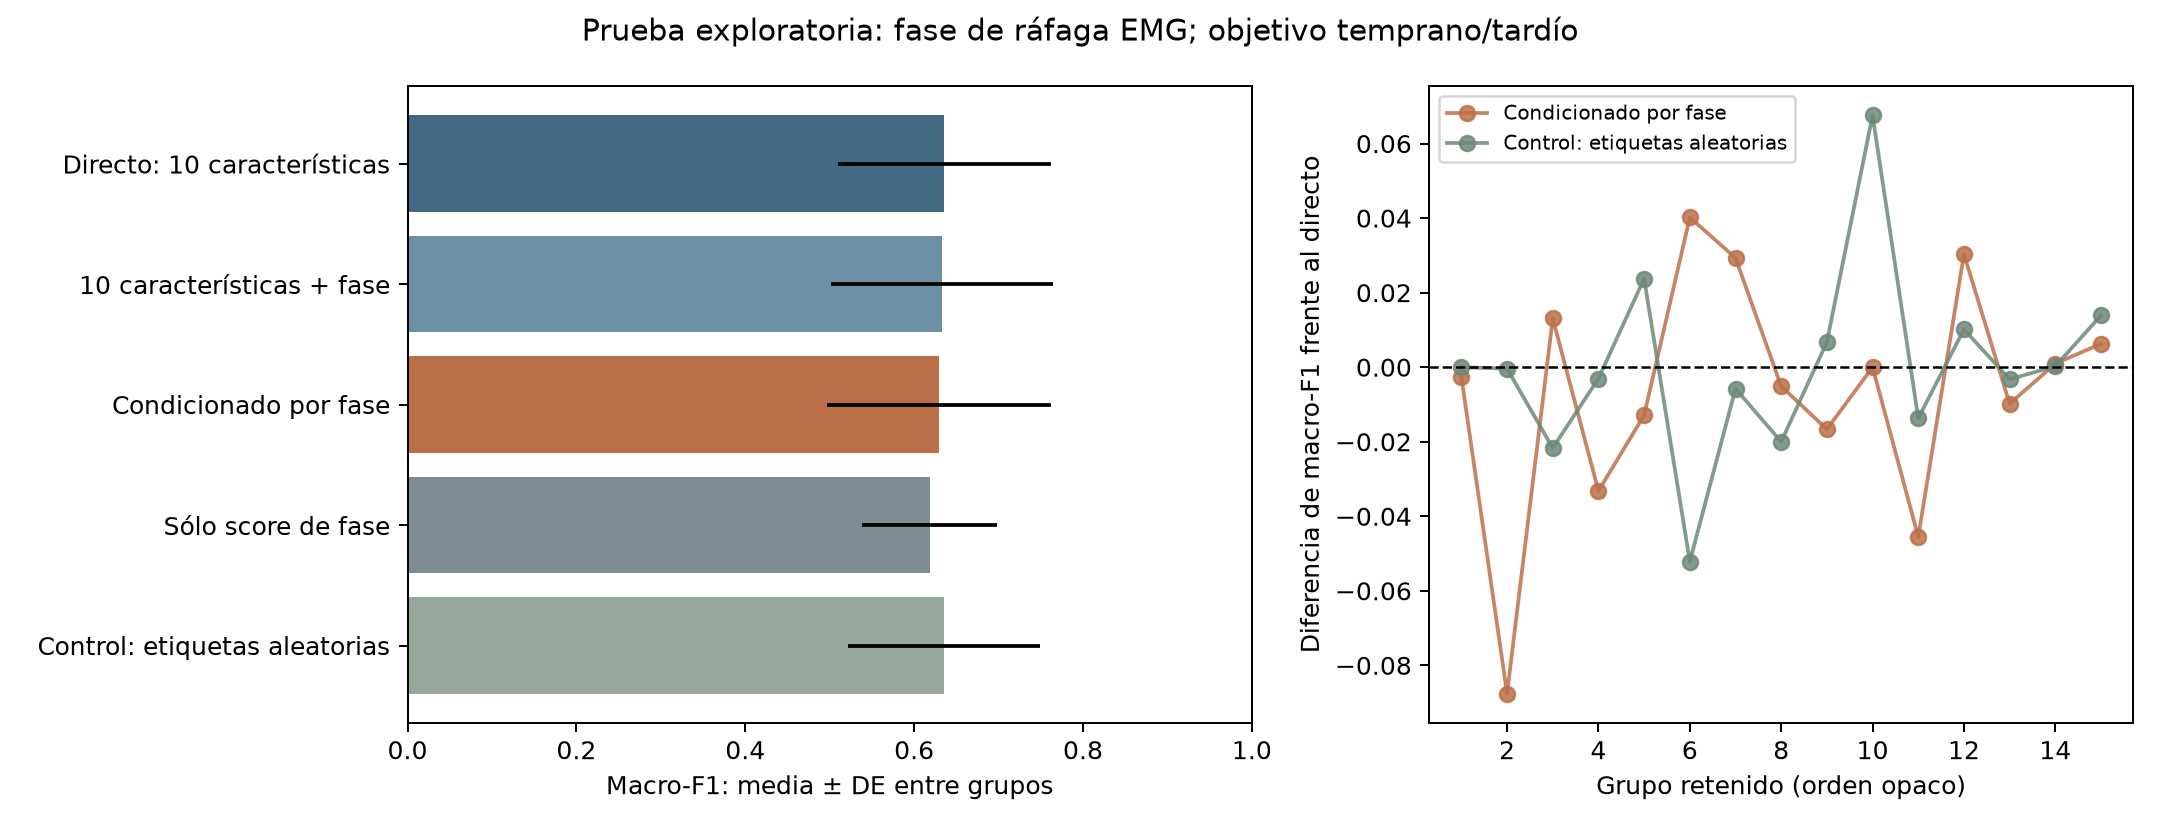
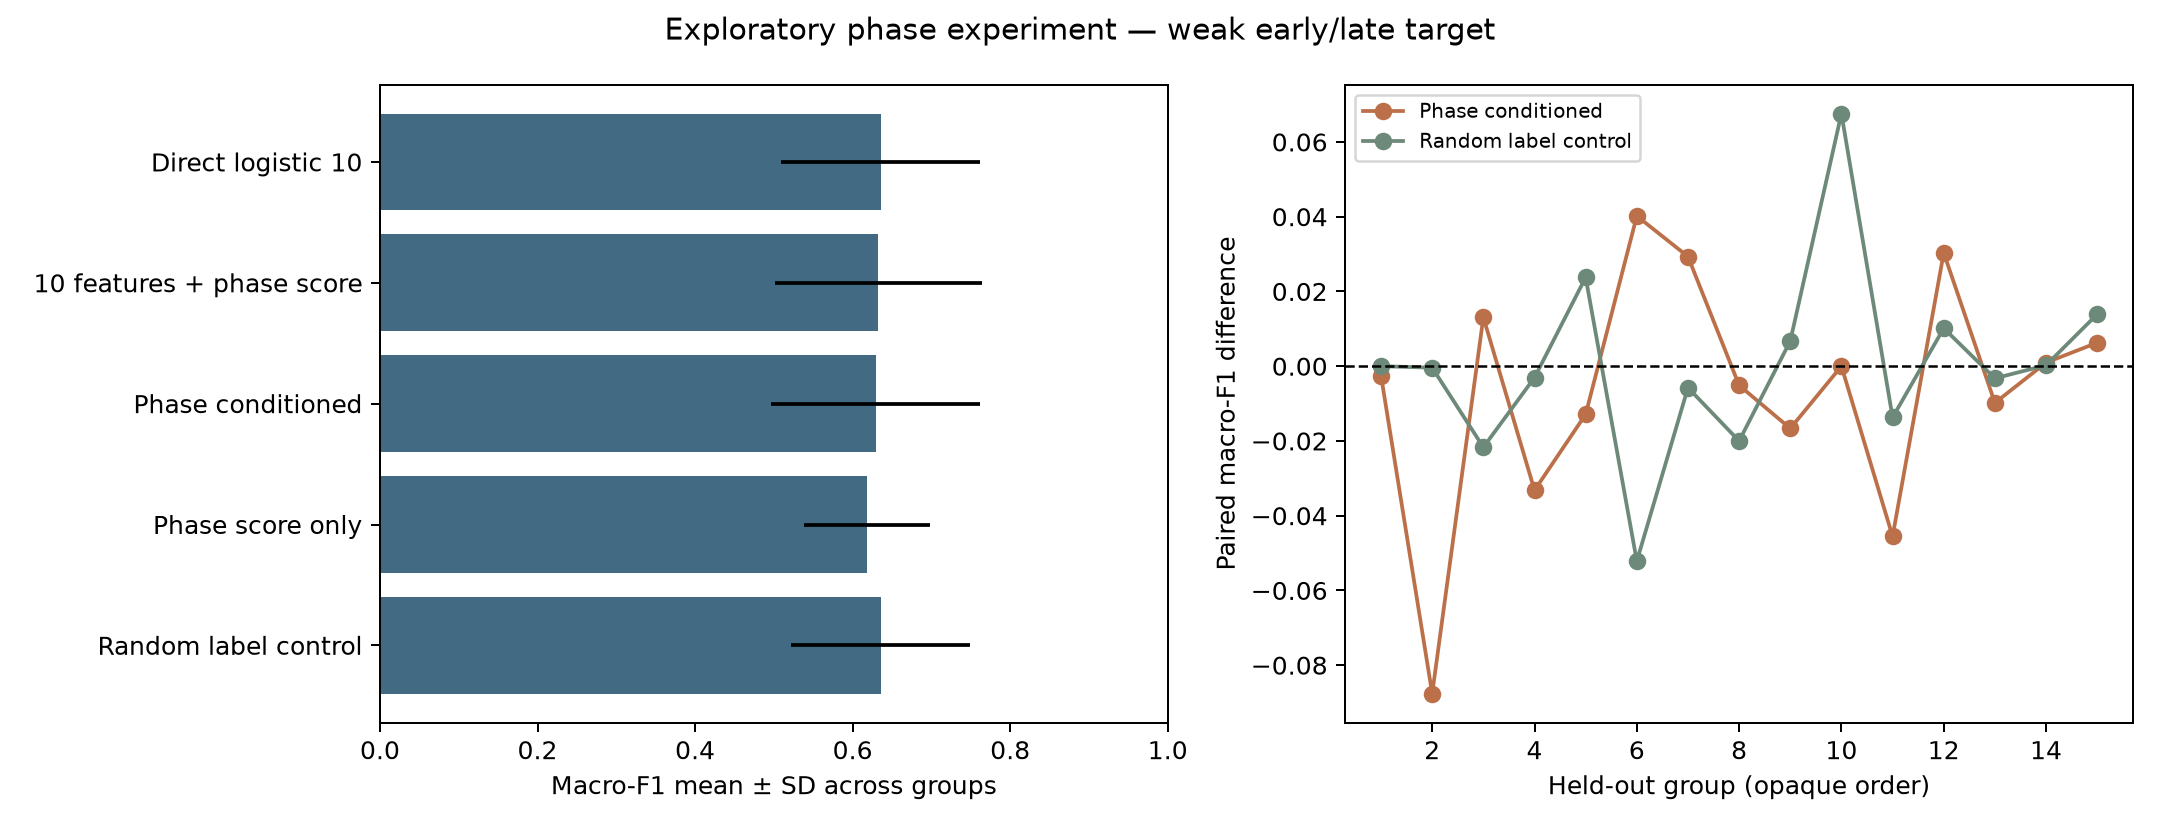
Make phase diagnostics reproducible from published experiment outputs

diff --git a/experiments/phase_proxy/evidence.py b/experiments/phase_proxy/evidence.py
@@ -1,6 +1,6 @@
 """Verify completed private runs and export aggregate, target-specific evidence."""
 from pathlib import Path
-import argparse,json,shutil
+import argparse,json,shutil,importlib.util
 import numpy as np
 import pandas as pd
 import matplotlib
@@ -53,6 +53,43 @@ def aggregate_hashes(public):
 
 def normalize_public_csv(public):
     for p in Path(public).glob('*.csv'):p.write_bytes(p.read_bytes().replace(b'\r\n',b'\n'))
+
+
+def resolve_run(experiment):
+    root=Path(experiment)
+    if (root/'completion_receipt.json').is_file():return root
+    if (root/'run/completion_receipt.json').is_file():return root/'run'
+    raise ValueError('no completed experiment found at run root or wrapper/run')
+
+
+def reconstruct_auxiliary(run):
+    """Rebuild only stage-1 diagnostics from frozen features; no stage-2 retraining."""
+    run=Path(run);script=Path(__file__).with_name('phase_spike.py')
+    spec=importlib.util.spec_from_file_location('original_phase_spike',script)
+    original=importlib.util.module_from_spec(spec);spec.loader.exec_module(original)
+    frame=pd.read_parquet(run/'phase_features.parquet');out=run/'phase_diagnostics';out.mkdir(exist_ok=True)
+    heads=original.PhaseScores(frame,out);groups=frame.subject_id.to_numpy();rows=[]
+    for group in sorted(set(groups)):
+        indices=np.flatnonzero(groups==group)
+        score=heads.get(sorted(set(groups)-{group}),indices,'phase','diagnostic/'+str(group))
+        part=frame.iloc[indices][['window_id','subject_id','recording_id','phase_proxy','label','time_fraction']].copy()
+        part['phase_score']=score;part['phase_prediction']=(score>=.5).astype(int);rows.append(part)
+    path=out/'phase_oof_predictions.parquet';pd.concat(rows,ignore_index=True).to_parquet(path,index=False);heads.save()
+    write_json(out/'reconstruction_receipt.json',{'phase_features_sha256':sha256_file(run/'phase_features.parquet'),'original_script_sha256':sha256_file(script),'predictions_sha256':sha256_file(path),'source':'group-held-out reconstruction of fixed original stage-1 head; no new fatigue-model fit'})
+    return path
+
+
+def draw_comparison(run,path):
+    summary=pd.read_csv(Path(run)/'metrics_summary.csv').query("metric=='f1_macro'").set_index('model')
+    results=pd.read_csv(Path(run)/'results.csv');fig,axes=plt.subplots(1,2,figsize=(12,4.6))
+    axes[0].barh([NAMES[m] for m in EXPERIMENT],[summary.loc[m,'mean'] for m in EXPERIMENT],xerr=[summary.loc[m,'sd'] for m in EXPERIMENT],color='#426b83')
+    axes[0].invert_yaxis();axes[0].set_xlim(0,1);axes[0].set_xlabel('Macro-F1 mean ± SD across groups')
+    base=results.query("model=='baseline_10'").set_index('fold_id').f1_macro
+    for model,color in [('phase_conditioned','#bc704a'),('random_conditioned','#6d8979')]:
+        d=results[results.model==model].set_index('fold_id').f1_macro-base
+        axes[1].plot(np.arange(1,len(d)+1),d,'o-',label=NAMES[model],color=color)
+    axes[1].axhline(0,color='black',ls='--',lw=1);axes[1].set_xlabel('Held-out group (opaque order)');axes[1].set_ylabel('Paired macro-F1 difference');axes[1].legend(fontsize=8)
+    fig.suptitle('Exploratory phase experiment — weak early/late target');fig.tight_layout();fig.savefig(path,dpi=180);plt.close(fig)
 
 
 def draw_confusions(table,models,path,title,normalized=False,auxiliary=False):
@@ -120,18 +157,18 @@ def build(primary,experiment,out,public,figures,config):
     primary=Path(primary);experiment=Path(experiment);out=Path(out);public=Path(public);figures=Path(figures)
     for p in [out,public,figures]:p.mkdir(parents=True,exist_ok=True)
     verify_evaluation(primary,config)
-    receipt=json.loads((experiment/'run/completion_receipt.json').read_text())
-    if receipt['status']!='complete' or (experiment/'run/RUNNING.json').exists():raise ValueError('phase run incomplete')
+    run=resolve_run(experiment);receipt=json.loads((run/'completion_receipt.json').read_text())
+    if receipt['status']!='complete' or (run/'RUNNING.json').exists():raise ValueError('phase run incomplete')
     for name,expected in receipt['output_hashes'].items():
-        if sha256_file(experiment/'run'/name)!=expected:raise ValueError('phase output checksum mismatch: '+name)
-    if sha256_file(experiment/'phase_spike.py')!=receipt['script_sha256']:raise ValueError('phase script identity mismatch')
-    if sha256_file(experiment/'PROTOCOLO_ANTES_DE_RESULTADOS.md')!=receipt['protocol_sha256']:raise ValueError('phase protocol identity mismatch')
-    p=pd.read_parquet(primary/'evaluation/oof_predictions.parquet');s=pd.read_parquet(experiment/'run/oof_predictions.parquet')
+        if sha256_file(run/name)!=expected:raise ValueError('phase output checksum mismatch: '+name)
+    if sha256_file(Path(__file__).with_name('phase_spike.py'))!=receipt['script_sha256']:raise ValueError('phase script identity mismatch')
+    if sha256_file(Path(__file__).with_name('PROTOCOLO_ANTES_DE_RESULTADOS.md'))!=receipt['protocol_sha256']:raise ValueError('phase protocol identity mismatch')
+    p=pd.read_parquet(primary/'evaluation/oof_predictions.parquet');s=pd.read_parquet(run/'oof_predictions.parquet')
     validate_predictions(p,PRIMARY,5509);validate_predictions(s,EXPERIMENT,5509)
     match=s.query("model=='baseline_10'").merge(p.query("model=='logistic_all'"),on='window_id',suffixes=('_s','_p'),validate='one_to_one')
     if len(match)!=5509 or not np.array_equal(match.label_s,match.label_p) or not np.array_equal(match.prediction_s,match.prediction_p):raise ValueError('baseline mismatch')
-    phase=pd.read_parquet(experiment/'run/phase_diagnostics/phase_oof_predictions.parquet')
-    auxiliary_metrics=pd.read_csv(experiment/'run/auxiliary_phase_metrics.csv')
+    phase=pd.read_parquet(reconstruct_auxiliary(run))
+    auxiliary_metrics=pd.read_csv(run/'auxiliary_phase_metrics.csv')
     for group,g in phase[phase.phase_proxy.notna()].groupby('subject_id'):
         measured=binary_metrics(g.phase_proxy.to_numpy().astype(int),g.phase_prediction.to_numpy(),g.phase_score.to_numpy())
         expected=auxiliary_metrics[auxiliary_metrics.subject_id==group]
@@ -152,11 +189,11 @@ def build(primary,experiment,out,public,figures,config):
         file='auxiliary_phase_confusion_'+('normalized' if normalized else 'counts')+'.png'
         draw_confusions(conf,['auxiliary_phase_head'],figures/file,'Auxiliary burst-half reference — '+('row proportions' if normalized else 'OOF counts'),normalized,True)
     architecture(figures/'phase_architecture.png');model_relationships(figures/'model_relationships.png')
-    shutil.copy2(experiment/'comparacion_fase.png',figures/'phase_comparison.png')
-    for name in ['metrics_summary.csv','paired_differences.csv']:shutil.copy2(experiment/'run'/name,public/name)
+    draw_comparison(run,figures/'phase_comparison.png')
+    for name in ['metrics_summary.csv','paired_differences.csv']:shutil.copy2(run/name,public/name)
     private=out/'opaque_mapping';private.mkdir(exist_ok=True)
     shutil.copy2(primary/'public_export/public_export_salt.txt',private/'public_export_salt.txt')
-    public_fold_export(pd.read_csv(experiment/'run/results.csv'),public,private)
+    public_fold_export(pd.read_csv(run/'results.csv'),public,private)
     auxiliary_metrics['model']='auxiliary_phase_head'
     public_fold_export(auxiliary_metrics,out/'auxiliary_export',private)
     shutil.copy2(out/'auxiliary_export/results.csv',public/'auxiliary_phase_fold_metrics.csv')

diff --git a/tools/build_manuscript.py b/tools/build_manuscript.py
@@ -279,7 +279,7 @@ p('rms; mav; waveform_length_per_s; mdf_hz; mnf_hz; power_ratio_low_high; wavele
 h('Appendix C - Repository map')
 p('io/contracts: source and configuration contracts. qc/preprocessing/activity/labels/features: data transformations. validation/evaluation: nested grouped OOF and metrics. inference: trusted local bundle and prediction. sensitivities: frozen variations and family ablations. reporting: numerical assets and sources. tests: software contracts and regressions. Raw signals, models, OOF predictions and this full report remain private; public code and deidentified fold metrics are separate.')
 if args.include_phase:
-    doc.add_page_break();h('Appendix D Phase architecture and audit')
+    h('Appendix D Phase architecture and audit')
     p('The auxiliary target is first/second EMG burst half. The final target is early/late recording position. Neither is a verified extension/flexion or physiological fatigue label. Bursts come from the existing activity mask; complete windows crossing a burst midpoint or edge lack auxiliary labels. Their absence does not exclude them from the fixed fatigue-side comparison.')
     figure('phase/phase_architecture.png','Figure D1. Actual two-stage architecture. Stage 2 preserves the EMG features and receives a cross-fitted auxiliary score. The dotted training reference is used only within training groups.')
     p('The auxiliary head uses 100 RF trees, depth 3 and minimum leaf 5. The primary final artifact uses 300 RF trees, depth 3 and minimum leaf 2. Both use balanced weights but learn different targets. The primary nested selector chooses one family internally; it is not an ensemble vote. The full-cohort final fit supplies a reloadable artifact and no additional OOF performance estimate.')

diff --git a/tests/test_phase_evidence.py b/tests/test_phase_evidence.py
@@ -103,3 +103,26 @@ def test_published_matrices_keep_matched_baseline_and_distinct_targets():
         assert sum(r[cols])==r.n
         assert abs(r.norm_0_0+r.norm_0_1-1)<1e-12
         assert abs(r.norm_1_0+r.norm_1_1-1)<1e-12
+
+
+def test_evidence_accepts_completed_run_root_or_legacy_wrapper(tmp_path):
+    m=module('evidence');direct=tmp_path/'direct';direct.mkdir();(direct/'completion_receipt.json').write_text('{}')
+    wrapper=tmp_path/'legacy';(wrapper/'run').mkdir(parents=True);(wrapper/'run/completion_receipt.json').write_text('{}')
+    assert m.resolve_run(direct)==direct
+    assert m.resolve_run(wrapper)==wrapper/'run'
+    with pytest.raises(ValueError):m.resolve_run(tmp_path/'missing')
+
+
+def test_auxiliary_reconstruction_runs_from_published_code(tmp_path):
+    m=module('evidence');p=module('phase_spike');rng=np.random.default_rng(13)
+    frame=pd.DataFrame(rng.normal(size=(24,10)),columns=p.FEATURE_COLUMNS)
+    frame['subject_id']=np.repeat(['g1','g2','g3'],8);frame['phase_proxy']=[0,1]*12;frame['random_proxy']=[1,0]*12
+    frame['window_id']=['w'+str(i) for i in range(24)];frame['recording_id']=frame.subject_id
+    frame['label']=[0,1]*12;frame['time_fraction']=np.tile(np.arange(8)/8,3)
+    frame.to_parquet(tmp_path/'phase_features.parquet',index=False)
+    out=m.reconstruct_auxiliary(tmp_path)
+    saved=pd.read_parquet(out)
+    assert len(saved)==24 and not saved.window_id.duplicated().any()
+    assert saved.phase_score.between(0,1).all()
+    for a in json.loads((tmp_path/'phase_diagnostics/disjoint_group_requests.json').read_text()):
+        assert not set(a['train_groups'])&set(a['test_groups'])

diff --git a/experiments/phase_proxy/README.md b/experiments/phase_proxy/README.md
@@ -12,10 +12,10 @@ The chosen output directory must be new. It receives the phase support, burst au
 
 The stage 1 RF is fixed at 100 trees, depth 3, minimum leaf 5 and balanced weights. Stage 2 logistic C is selected from 0.1/1/10 using grouped validation; its training scores are generated outside each group. This repeats inside inner selection. Random auxiliary labels provide one capacity control, not an exhaustive permutation test.
 
-`evidence.py` verifies completed private inputs, baseline equivalence, target labels, duplicate-free OOF support and completion hashes before generating matrices. It consumes the original private supplement folder, including its separately reconstructed `run/phase_diagnostics/phase_oof_predictions.parquet`. That reconstruction script and its verification are in the private delivery; it is not necessary to rerun the fatigue experiment to export evidence.
+`evidence.py` verifies completed private inputs, baseline equivalence, target labels, duplicate-free OOF support and completion hashes before generating matrices. It accepts either the new run root directly or the original wrapper with a `run/` subdirectory. The published exporter reconstructs group-held-out stage-1 predictions from the frozen feature table, reproduces their recorded auxiliary metrics and builds the comparison figure itself. It does not require an unprovided private reconstruction script or prebuilt image, and does not retrain the second stage.
 
 ```powershell
-python experiments/phase_proxy/evidence.py --primary 'C:\private\primary' --experiment 'C:\private\phase-supplement' --private-out 'C:\private\phase-evidence' --public-dir results/phase_experiment --figures-dir docs/figures
+python experiments/phase_proxy/evidence.py --primary 'C:\private\primary' --experiment 'C:\private\phase-run-v2' --private-out 'C:\private\phase-evidence' --public-dir results/phase_experiment --figures-dir docs/figures
 python -m pytest -q
 ```
 

diff --git a/docs/superpowers/plans/2026-10-28-phase-supplement.md b/docs/superpowers/plans/2026-10-28-phase-supplement.md
@@ -42,3 +42,5 @@ Ruling: native create_worktree cannot address this nested repository because its
 Ruling: no experiment is rerun or tuned for a better score; this task integrates and verifies completed evidence. Documentation does not promote the experimental model to the primary artifact.
 
 T1–T2: seven expected RED cases for the absent evidence exporter, then all evidence tests GREEN. Added separate RED→GREEN cases for self-referential receipts and Windows CSV line endings. Public CSVs are normalized to LF before hashing so a Git checkout preserves receipt validity. Baseline equivalence, original completion hashes and auxiliary reconstruction metrics verified. All source data and model artifacts remain private.
+
+Independent final review: all 12 public count matrices matched private OOF; original phase script/protocol bytes matched receipts. One P2 reproduction gap was accepted: reconstruction of auxiliary OOF and comparison image depended on private helpers. One fix pass added two expected RED cases, then a public automatic reconstruction/export path accepting direct or legacy run layouts. A fresh copied run with no diagnostics or comparison image reproduced the evidence, followed by full suite GREEN 40/40. No second-stage model was refitted and the original experimental script/protocol remain unchanged. Reviewer did not inspect final rendered artifacts or independently verify literature; those checks belong to final QA.
